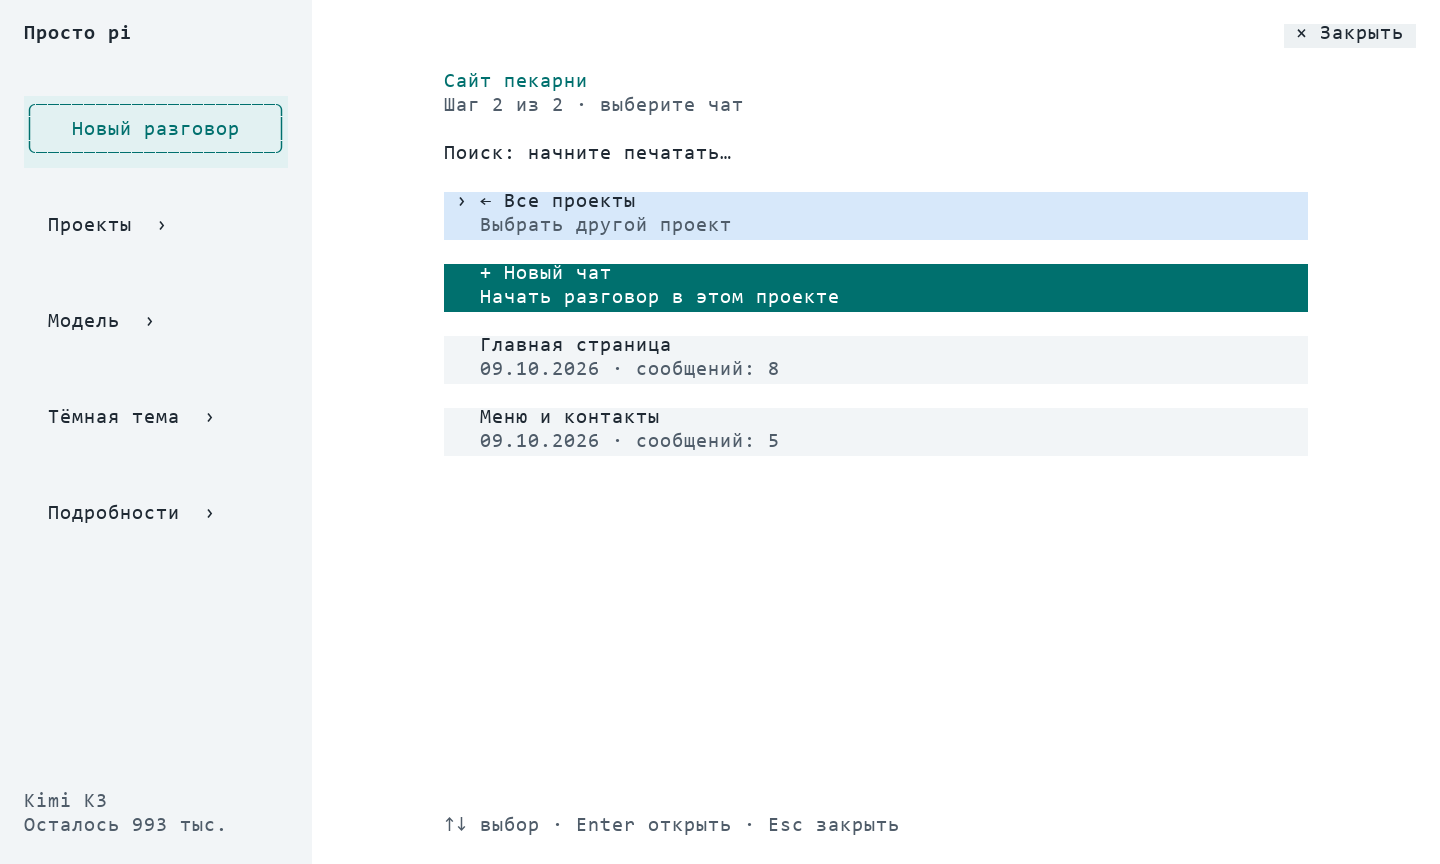
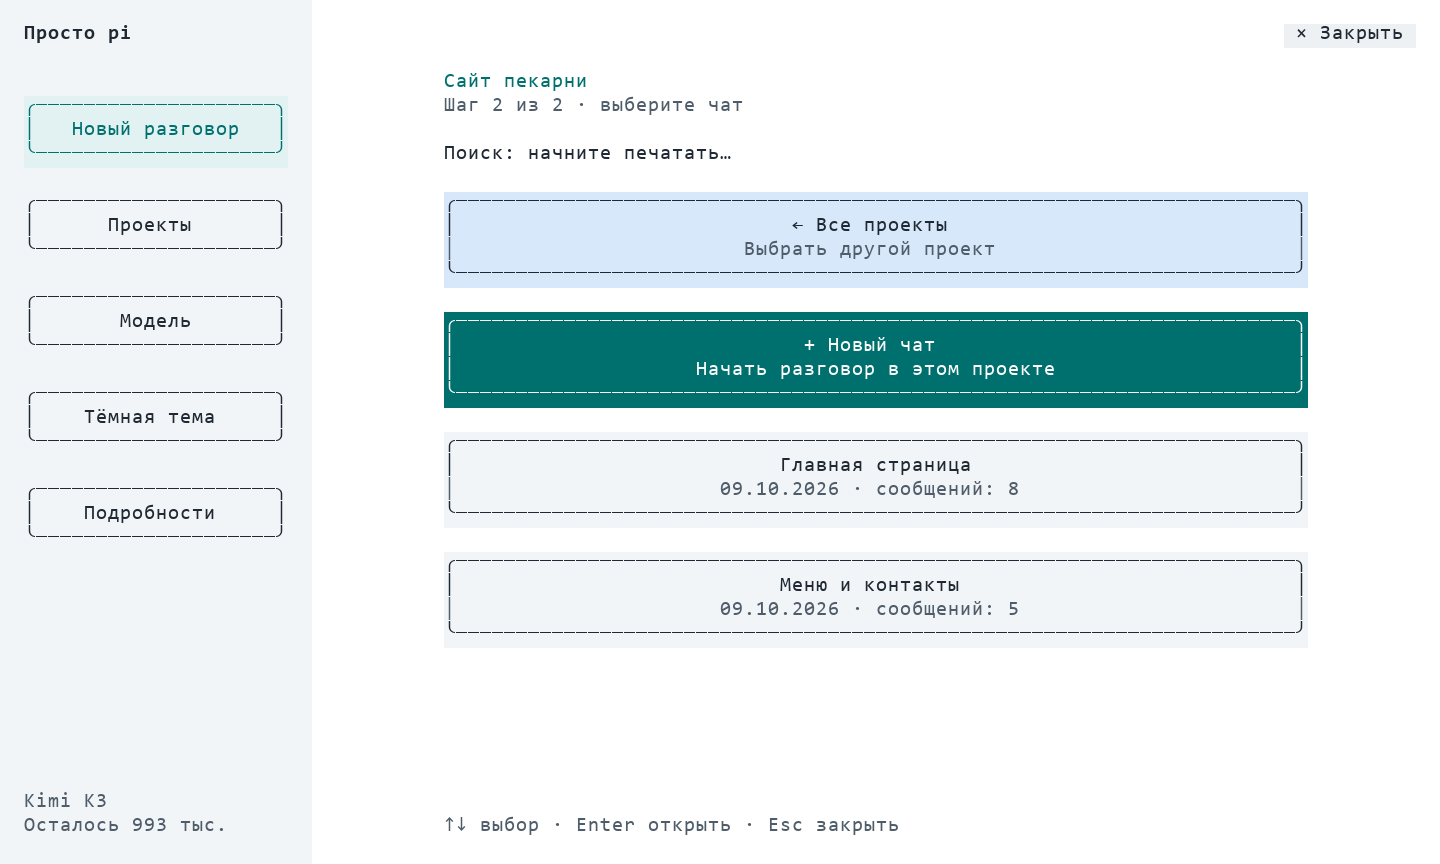
Center button labels, unify outlines and remove bottom activity panel

diff --git a/README.md b/README.md
@@ -48,7 +48,8 @@ pi remove git:github.com/slavamirniy/pi-friendly
 - **Отправить** имеет кликабельную область высотой три строки и становится **Выполнить** при вводе slash-команды и **Остановить** во время ответа.
 - Проекты и чаты находятся на отдельных экранах. Поиск фильтрует текущий список.
 - Служебный баннер расширений, reasoning и подробные логи инструментов скрыты в обычном чате. **Подробности** возвращают стандартный экран pi; кнопка сверху возвращает в чат.
-- Во время работы показана лента реальных действий: создание и изменение файлов, чтение, тесты, сборка. Видны завершённые шаги, текущее действие и затраченное время. Проценты готовности не выдумываются.
+- Действия с файлами отображаются в переписке. Отдельная нижняя панель «Работаю» убрана, чтобы оставить больше места чату.
+- Подписи кнопок центрированы; основные кнопки имеют скруглённый контур и единые отступы.
 - Ошибка отображается отдельной карточкой: понятная причина, следующий шаг и **Подробнее** с текстом сервиса. Поддержаны ошибки сети, доступа, квоты, ограничения частоты, контекста и сервера. Уведомления о прогрессе не скрывают ошибку.
 - Остаток квоты — слева под моделью, другие статусы расширений — внизу.
 - Светлая тема включена по умолчанию; выбор сохраняется в ~/.pi/agent/friendly-ui.json.
